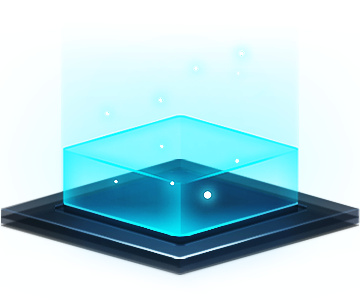
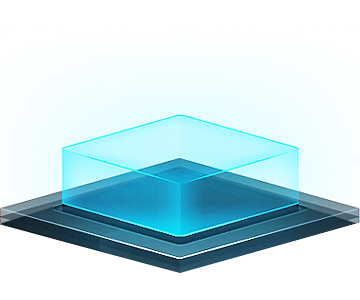
修复bug

diff --git a/index.html b/index.html
@@ -638,9 +638,13 @@
         </div>
       </div>
       <div class="footer">
-        <div id="footer_item1" class="footer_item"
+        <div id="footer_item1"
+             class="footer_item"
              onclick="onFooterChange(1)">
           <img class="bac"
+               src=""
+               alt="">
+          <img class="bac2"
                src=""
                alt="">
           <img class="tip_img"
@@ -650,21 +654,22 @@
 
           <div class="btn_list">
             <div class="btn_list_content">
-              <div class="btn_list_item" onclick="changeBtnItem(event)">按钮1</div>
-              <div class="btn_list_item" onclick="changeBtnItem(event)">按钮1</div>
-              <div class="btn_list_item" onclick="changeBtnItem(event)">按钮1</div>
-              <div class="btn_list_item" onclick="changeBtnItem(event)">按钮1</div>
-              <div class="btn_list_item" onclick="changeBtnItem(event)">按钮1</div>
-              <div class="btn_list_item" onclick="changeBtnItem(event)">按钮1</div>
-              <div class="btn_list_item" onclick="changeBtnItem(event)">按钮1</div>
-              <div class="btn_list_item" onclick="changeBtnItem(event)">按钮1</div>
-              <div class="btn_list_item" onclick="changeBtnItem(event)">按钮1</div>
+              <div class="btn_list_item"
+                   onclick="changeBtnItem(event)">按钮1</div>
+              <div class="btn_list_item"
+                   onclick="changeBtnItem(event)">按钮1</div>
+              <div class="btn_list_item"
+                   onclick="changeBtnItem(event)">按钮1</div>
             </div>
           </div>
         </div>
-        <div id="footer_item2" class="footer_item"
+        <div id="footer_item2"
+             class="footer_item"
              onclick="onFooterChange(2)">
           <img class="bac"
+               src=""
+               alt="">
+          <img class="bac2"
                src=""
                alt="">
           <img class="tip_img"
@@ -674,21 +679,22 @@
 
           <div class="btn_list">
             <div class="btn_list_content">
-              <div class="btn_list_item" onclick="changeBtnItem(event)">按钮2</div>
-              <div class="btn_list_item" onclick="changeBtnItem(event)">按钮2</div>
-              <div class="btn_list_item" onclick="changeBtnItem(event)">按钮2</div>
-              <div class="btn_list_item" onclick="changeBtnItem(event)">按钮2</div>
-              <div class="btn_list_item" onclick="changeBtnItem(event)">按钮2</div>
-              <div class="btn_list_item" onclick="changeBtnItem(event)">按钮2</div>
-              <div class="btn_list_item" onclick="changeBtnItem(event)">按钮2</div>
-              <div class="btn_list_item" onclick="changeBtnItem(event)">按钮2</div>
-              <div class="btn_list_item" onclick="changeBtnItem(event)">按钮2</div>
+              <div class="btn_list_item"
+                   onclick="changeBtnItem(event)">按钮2</div>
+              <div class="btn_list_item"
+                   onclick="changeBtnItem(event)">按钮2</div>
+              <div class="btn_list_item"
+                   onclick="changeBtnItem(event)">按钮2</div>
             </div>
           </div>
         </div>
-        <div id="footer_item3" class="footer_item"
+        <div id="footer_item3"
+             class="footer_item"
              onclick="onFooterChange(3)">
           <img class="bac"
+               src=""
+               alt="">
+          <img class="bac2"
                src=""
                alt="">
           <img class="tip_img"
@@ -698,21 +704,22 @@
 
           <div class="btn_list">
             <div class="btn_list_content">
-              <div class="btn_list_item" onclick="changeBtnItem(event)">按钮3</div>
-              <div class="btn_list_item" onclick="changeBtnItem(event)">按钮3</div>
-              <div class="btn_list_item" onclick="changeBtnItem(event)">按钮3</div>
-              <div class="btn_list_item" onclick="changeBtnItem(event)">按钮3</div>
-              <div class="btn_list_item" onclick="changeBtnItem(event)">按钮3</div>
-              <div class="btn_list_item" onclick="changeBtnItem(event)">按钮3</div>
-              <div class="btn_list_item" onclick="changeBtnItem(event)">按钮3</div>
-              <div class="btn_list_item" onclick="changeBtnItem(event)">按钮3</div>
-              <div class="btn_list_item" onclick="changeBtnItem(event)">按钮3</div>
+              <div class="btn_list_item"
+                   onclick="changeBtnItem(event)">按钮3</div>
+              <div class="btn_list_item"
+                   onclick="changeBtnItem(event)">按钮3</div>
+              <div class="btn_list_item"
+                   onclick="changeBtnItem(event)">按钮3</div>
             </div>
           </div>
         </div>
-        <div id="footer_item4" class="footer_item"
+        <div id="footer_item4"
+             class="footer_item"
              onclick="onFooterChange(4)">
           <img class="bac"
+               src=""
+               alt="">
+          <img class="bac2"
                src=""
                alt="">
           <img class="tip_img"
@@ -722,15 +729,12 @@
 
           <div class="btn_list">
             <div class="btn_list_content">
-              <div class="btn_list_item" onclick="changeBtnItem(event)">按钮4</div>
-              <div class="btn_list_item" onclick="changeBtnItem(event)">按钮4</div>
-              <div class="btn_list_item" onclick="changeBtnItem(event)">按钮4</div>
-              <div class="btn_list_item" onclick="changeBtnItem(event)">按钮4</div>
-              <div class="btn_list_item" onclick="changeBtnItem(event)">按钮4</div>
-              <div class="btn_list_item" onclick="changeBtnItem(event)">按钮4</div>
-              <div class="btn_list_item" onclick="changeBtnItem(event)">按钮4</div>
-              <div class="btn_list_item" onclick="changeBtnItem(event)">按钮4</div>
-              <div class="btn_list_item" onclick="changeBtnItem(event)">按钮4</div>
+              <div class="btn_list_item"
+                   onclick="changeBtnItem(event)">按钮4</div>
+              <div class="btn_list_item"
+                   onclick="changeBtnItem(event)">按钮4</div>
+              <div class="btn_list_item"
+                   onclick="changeBtnItem(event)">按钮4</div>
             </div>
           </div>
         </div>

diff --git a/assets/less/styles.less b/assets/less/styles.less
@@ -450,6 +450,11 @@
           margin: -2rem 0 0 0;
         }
 
+        .bac2 {
+          position: absolute;
+          display: none;
+        }
+
         .tip_img {
           position: absolute;
           margin-top: 3.4rem;
@@ -459,39 +464,31 @@
 
         .btn_list {
           position: absolute;
-          top: -10.875rem;
-          width: 8.208rem;
-          height: 13rem;
-          background: url('../images/menu.png') no-repeat;
-          background-size: 100% 100%;
+          top: -12rem;
           display: flex;
           flex-direction: column;
           align-items: center;
           display: none;
-          padding: .5rem;
+          padding: .5rem .5rem 1.5rem .5rem;
 
           &_content {
             width: 100%;
-            height: 95%;
+            height: 100%;
             display: flex;
             flex-direction: column;
             align-items: center;
-            overflow-y: scroll;
           }
 
           &_item {
-            width: 100%;
-            height: 2.167rem;
-            background: rgba(3, 157, 255, 0.2);
+            width: 10.917rem;
+            height: 4rem;
+            background: url('../images/二级菜单.png') no-repeat;
+            background-size: 100% 100%;
             color: rgba(249, 242, 230, 1);
+            font-size: 1.333rem;
             display: flex;
-            align-items: center;
             justify-content: center;
-            margin-top: .333rem;
-
-            &:flex-child {
-              margin-top: 0;
-            }
+            padding-top: 9%;
           }
         }
 
@@ -501,12 +498,41 @@
             height: 12.75rem;
             margin: -2rem 0 0 0;
           }
+
+          .bac2 {
+            content: url('../images/12.24补充切图/按钮2-1.png');
+            position: absolute;
+            display: block;
+            height: 12.75rem;
+            margin: -2rem 0 0 0;
+            animation: lightning 3s linear infinite;
+          }
+
+          .tip_img {
+            position: absolute;
+            margin-top: 2.8rem;
+            width: 2.417rem;
+            height: 1.917rem;
+          }
+
+          .btn_list {
+            display: flex;
+          }
         }
       }
 
       .active {
         .bac {
           content: url('../images/12.24补充切图/按钮2.png');
+        }
+
+        .bac2 {
+          content: url('../images/12.24补充切图/按钮2-1.png');
+          position: absolute;
+          display: block;
+          height: 12.75rem;
+          margin: -2rem 0 0 0;
+          animation: lightning 3s linear infinite;
         }
 
         .tip_img {
@@ -518,6 +544,20 @@
 
         .btn_list {
           display: flex;
+        }
+      }
+
+      @keyframes lightning {
+        0% {
+          opacity: 1;
+        }
+
+        50% {
+          opacity: 0;
+        }
+
+        100% {
+          opacity: 1;
         }
       }
     }
